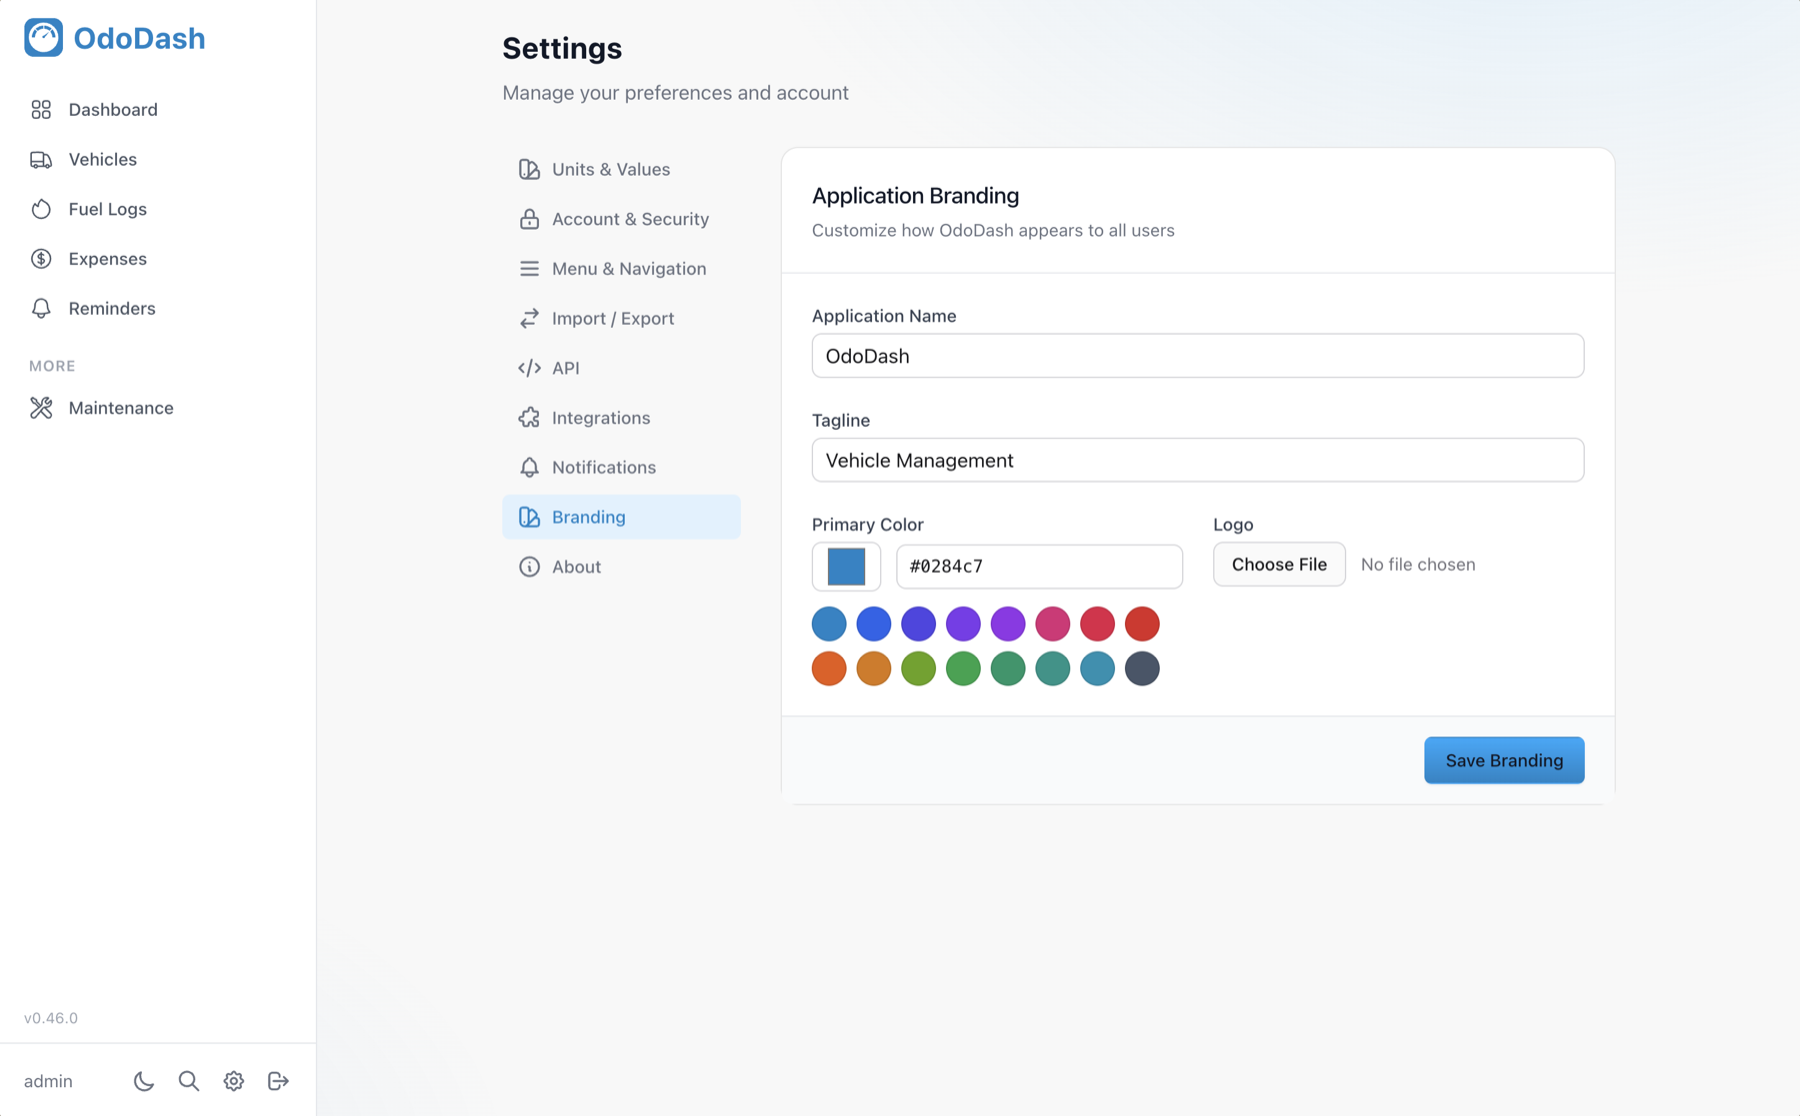
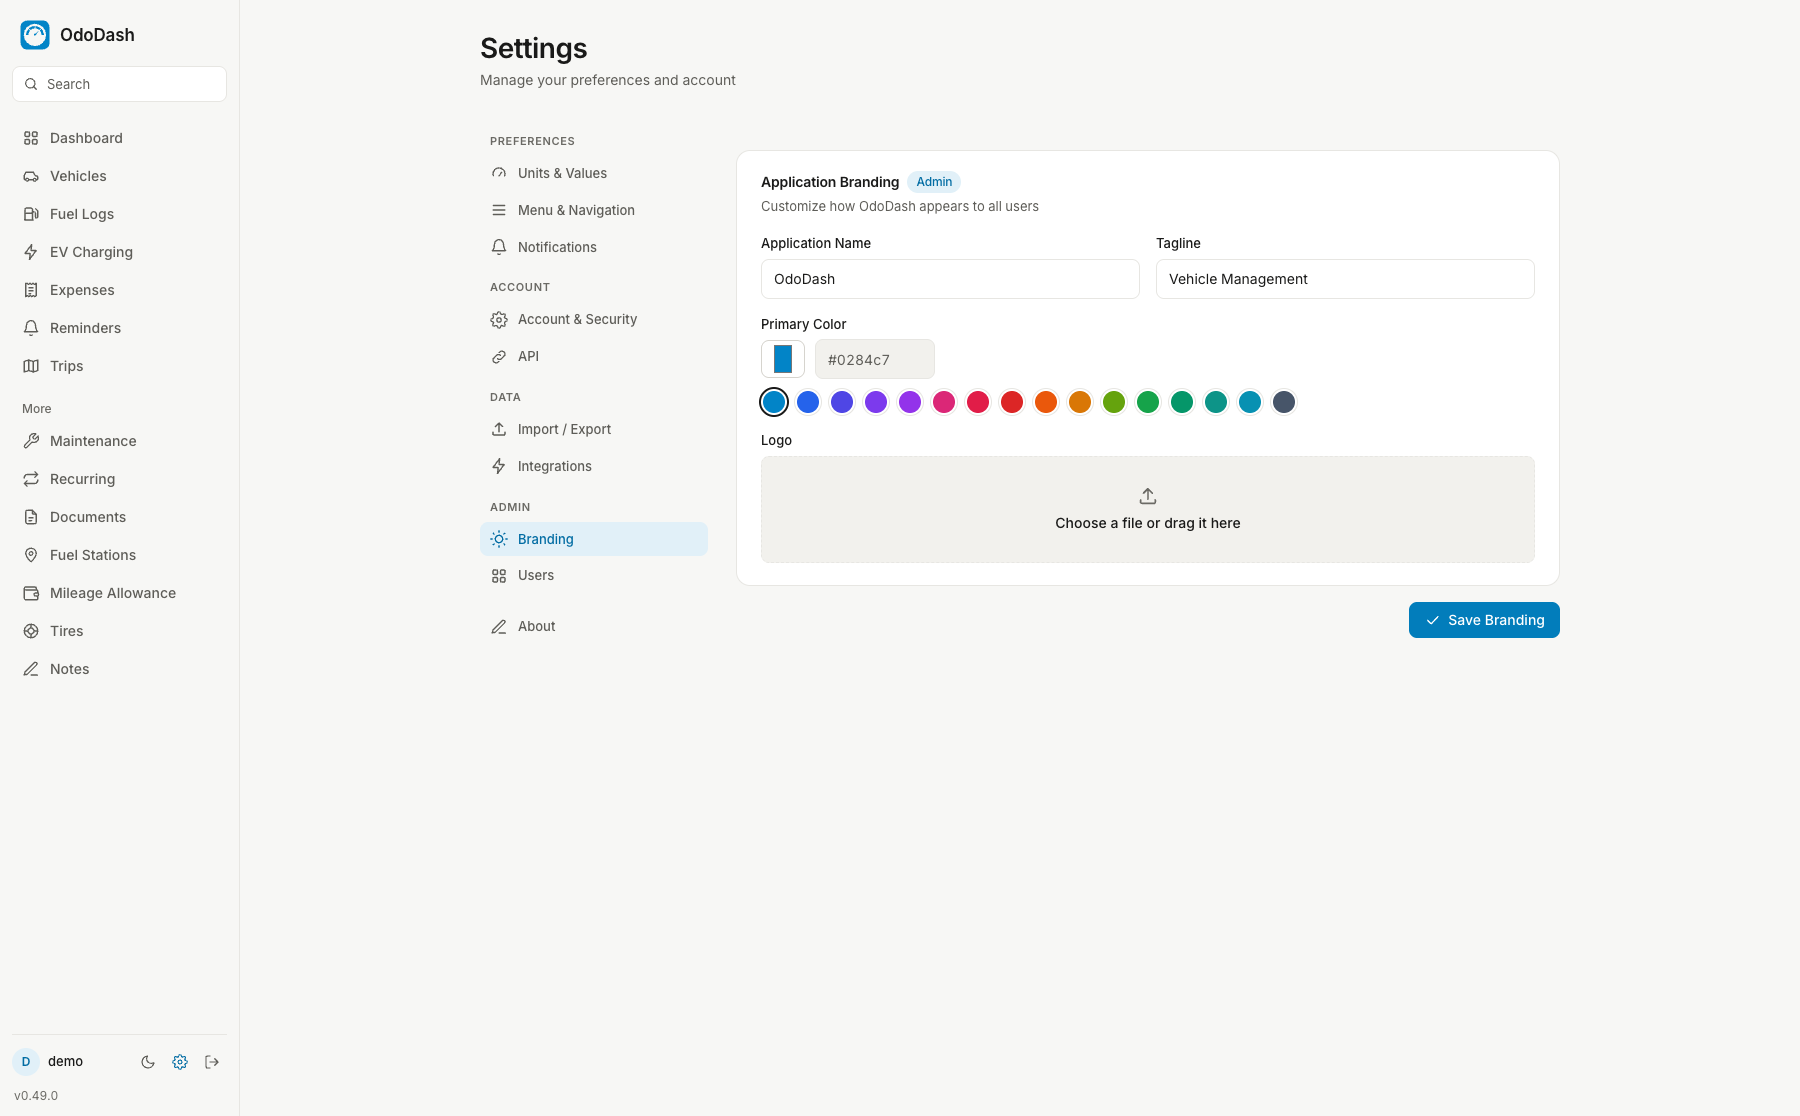
chore: release 0.49.0 with the redesigned look and fresh screenshots

diff --git a/site/index.html b/site/index.html
@@ -380,7 +380,7 @@ footer { margin-top: 96px; padding: 40px 0 56px; border-top: 1px solid var(--lin
         <div class="hero-shot" id="heroShot">
           <div class="frame">
             <div class="frame-bar" aria-hidden="true"><i></i><i></i><i></i><span class="url">ododash.local:5050</span></div>
-            <img src="https://raw.githubusercontent.com/moshiur-hridoy/OdoDash/ododash-release/screenshots/dashboard-dark.png" alt="The OdoDash dashboard in dark mode, showing cost per km, total distance, fuel cost and a monthly spending chart" width="1800" height="1116" fetchpriority="high">
+            <img src="https://raw.githubusercontent.com/moshiur-hridoy/OdoDash/ododash-release/screenshots/dashboard-dark.png" alt="The OdoDash dashboard in dark mode, showing this month's spending against last month, what needs attention, and your vehicles" width="1800" height="1116" fetchpriority="high">
           </div>
         </div>
       </div>
@@ -509,7 +509,7 @@ footer { margin-top: 96px; padding: 40px 0 56px; border-top: 1px solid var(--lin
     <div class="wrap split split-rev">
       <div class="frame reveal">
         <div class="frame-bar" aria-hidden="true"><i></i><i></i><i></i><span class="url">vehicles / 1</span></div>
-        <img src="https://raw.githubusercontent.com/moshiur-hridoy/OdoDash/ododash-release/screenshots/vehicle-page.png" alt="A vehicle page with costs, distance, consumption and quick actions" loading="lazy" width="1800" height="1117">
+        <img src="https://raw.githubusercontent.com/moshiur-hridoy/OdoDash/ododash-release/screenshots/vehicle-page.png" alt="A vehicle page with an odometer, consumption gauge, cost per km, upcoming maintenance and quick actions" loading="lazy" width="1800" height="1117">
       </div>
       <div>
         <span class="eyebrow reveal">Every vehicle at a glance</span>

diff --git a/config.py b/config.py
@@ -11,7 +11,7 @@ basedir = Path(__file__).parent.absolute()
 load_dotenv(basedir / '.env')
 
 
-APP_VERSION = '0.48.0'
+APP_VERSION = '0.49.0'
 RELEASE_CHANNEL = os.environ.get('RELEASE_CHANNEL', 'stable')
 GIT_SHA = os.environ.get('GIT_SHA', '')[:7]  # Short SHA
 GITHUB_REPO = 'moshiur-hridoy/OdoDash'

diff --git a/CHANGELOG.md b/CHANGELOG.md
@@ -10,6 +10,39 @@ This file starts at 0.28.0. Notes for earlier releases are on the
 
 ## [Unreleased]
 
+## [0.49.0] - 2026-11-13
+
+### Changed
+
+- A new look across the whole app. Every page now uses one design system:
+  a calm light theme with a sidebar, a dark theme that follows your device,
+  Inter type, odometer-style readings and an accent colour taken from
+  Settings > Branding. Nothing about your data or how you log it changes.
+- The dashboard leads with what you spent this month or this year and how
+  that compares with the same point last month, then Needs attention, driven
+  distance, cheapest fuel, your vehicles and recent activity.
+- The vehicle page opens on a cockpit panel (last odometer, average
+  consumption gauge, cost per km), followed by upcoming maintenance, trends
+  and one activity log you can filter.
+- Fuel, charging, expenses, trips, reminders, recurring expenses,
+  maintenance, documents, notes, tyres, parts, stations, price history,
+  mileage allowance and trip templates are lists grouped by month, with
+  monthly totals and filters. On a phone each row stacks into two lines, so
+  no page scrolls sideways.
+- Every add and edit form shares one layout: the vehicle picker first,
+  required fields marked, the primary action fixed in a footer. Fuel and
+  charging forms read the odometer from the selected vehicle.
+- Settings is rebuilt as a list of sections (Units, Menu, Notifications,
+  Account, API, Import/Export, Integrations, Branding, Users, About). On a
+  phone it shows the list first and each section on its own screen, with
+  Back returning to the list. Users now sits inside Settings.
+- Sign-in, registration, password change, CSV import, backup restore,
+  timeline, search, trip report, document view, quick fuel, toasts, the
+  offline page and the API docs follow the same design. The trip report
+  shows bars instead of a doughnut.
+- Maintenance Mark Complete opens a dialog, the stations list stars a
+  favourite in place, and the notes list is paginated with a vehicle filter.
+
 ### Fixed
 
 - Total distance, and the cost per km built on it, counts odometer readings
